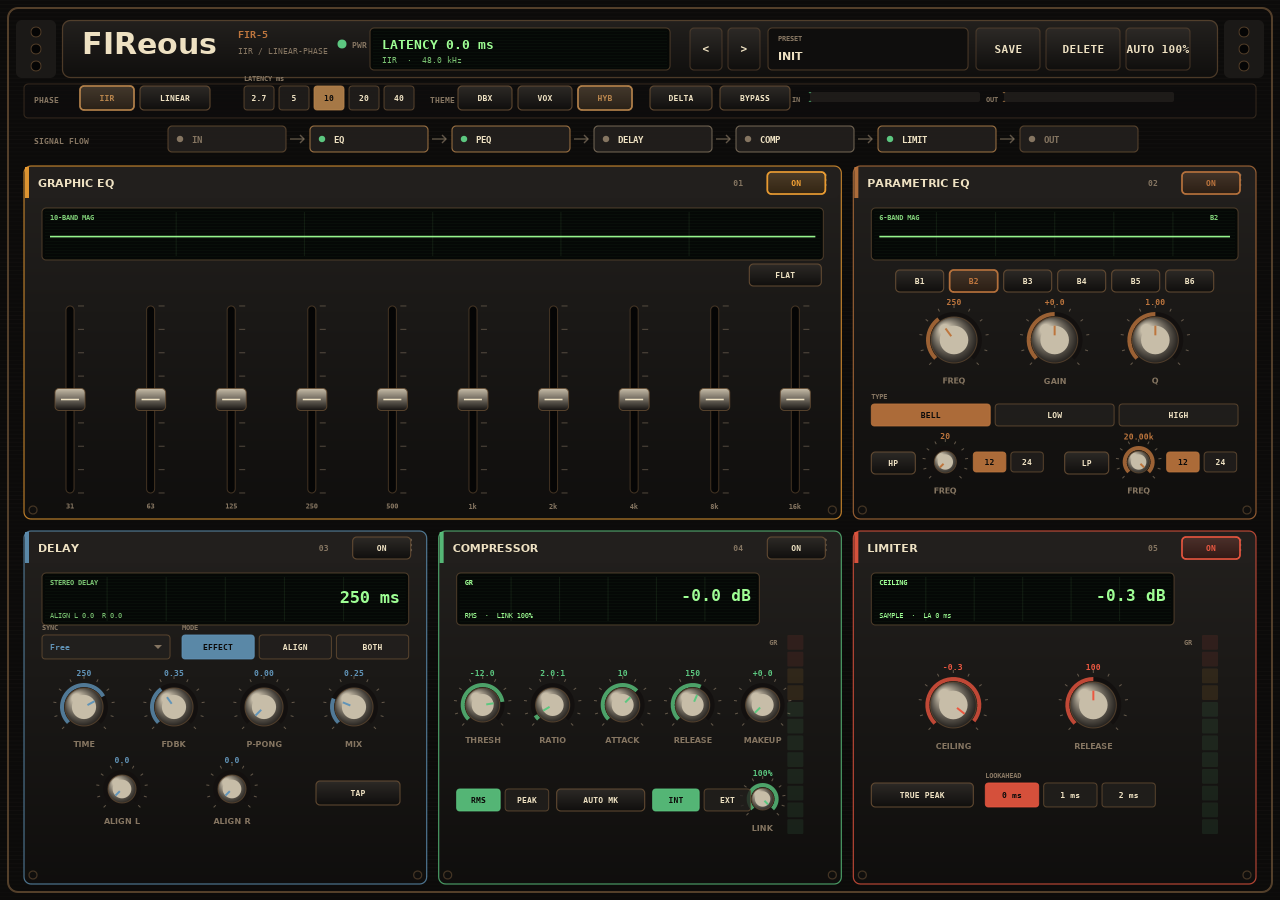
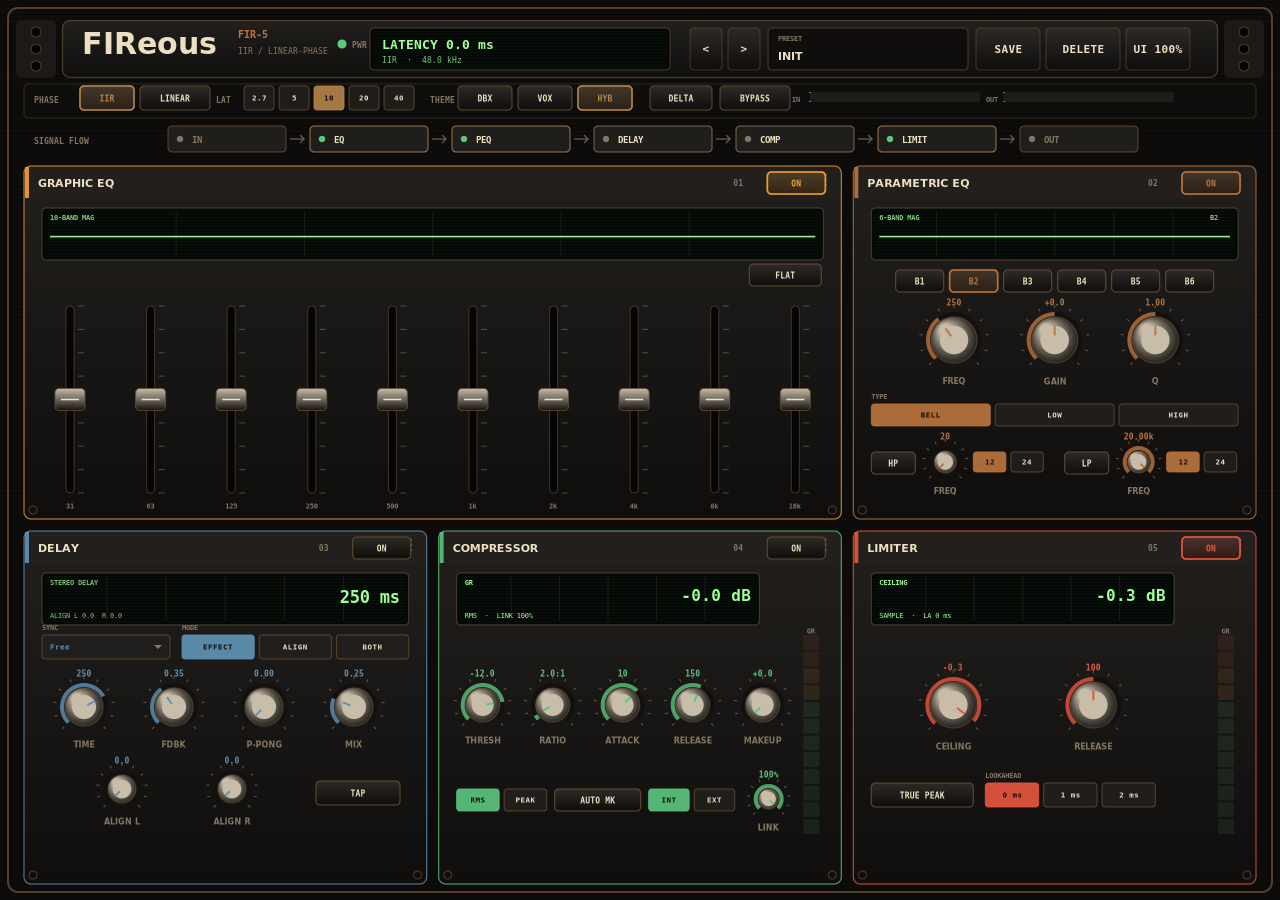
Fix UI overlaps and make UI scale work in standalone

Changed region(s): [[0.5, 0.8711, 0.625, 0.9333], [0.375, 0.8711, 0.4688, 0.9022], [0.875, 0.0311, 0.9375, 0.0622]]

diff --git a/plugins/FIReous/ui/UIPainter.hpp b/plugins/FIReous/ui/UIPainter.hpp
@@ -579,20 +579,20 @@ inline void buildCompModule(Layout& L, const ModulePanel& p, Color accent, const
 {
     const float x = p.x, y = p.y, w = p.w, h = p.h;
     addLcd(L, x + 18, y + 42, w - 100, 52, kLcdComp, th.lcdText, th.lcdBg);
-    addMeter(L, x + w - 54, y + 104, 16, h - 154, kMeterGrComp, th.accentComp, true, "GR");
+    addMeter(L, x + w - 38, y + 104, 16, h - 154, kMeterGrComp, th.accentComp, true, "GR");
 
     addKnob(L, kParamCompThreshold, x + 44, y + 174, 20, "THRESH", accent);
     addKnob(L, kParamCompRatio,     x + 114, y + 174, 20, "RATIO", accent);
     addKnob(L, kParamCompAttack,    x + 184, y + 174, 20, "ATTACK", accent);
     addKnob(L, kParamCompRelease,   x + 254, y + 174, 20, "RELEASE", accent);
     addKnob(L, kParamCompMakeup,    x + 324, y + 174, 20, "MAKEUP", accent);
-    addKnob(L, kParamCompLink,      x + 324, y + 268, 14, "LINK", accent);
+    addKnob(L, kParamCompLink,      x + 330, y + 268, 13, "LINK", accent);
 
-    addSelector(L, kParamCompDetector, x + 18, y + 258, 92, 22,
+    addSelector(L, kParamCompDetector, x + 18, y + 258, 90, 22,
                 { {0.0f, "RMS"}, {1.0f, "PEAK"} }, accent, nullptr);
-    L.buttons.push_back(makeButton(x + 118, y + 258, 88, 22, "AUTO MK", accent,
+    L.buttons.push_back(makeButton(x + 116, y + 258, 86, 22, "AUTO MK", accent,
                                    kParamCompAutoMakeup, 0.0f, kActionNone, true));
-    addSelector(L, kParamCompKey, x + 214, y + 258, 98, 22,
+    addSelector(L, kParamCompKey, x + 210, y + 258, 86, 22,
                 { {0.0f, "INT"}, {1.0f, "EXT"} }, accent, nullptr);
     (void)h;
 }
@@ -601,7 +601,7 @@ inline void buildLimModule(Layout& L, const ModulePanel& p, Color accent, const 
 {
     const float x = p.x, y = p.y, w = p.w, h = p.h;
     addLcd(L, x + 18, y + 42, w - 100, 52, kLcdLim, th.lcdText, th.lcdBg);
-    addMeter(L, x + w - 54, y + 104, 16, h - 154, kMeterGrLim, th.accentLim, true, "GR");
+    addMeter(L, x + w - 38, y + 104, 16, h - 154, kMeterGrLim, th.accentLim, true, "GR");
 
     addKnob(L, kParamLimCeiling, x + 100, y + 174, 26, "CEILING", accent);
     addKnob(L, kParamLimRelease, x + 240, y + 174, 26, "RELEASE", accent);
@@ -647,7 +647,7 @@ inline Layout buildLayout(float width, float height, const float* values,
     L.buttons.push_back(makeButton(140, 86, 70, 24, "LINEAR", th.accentGlobal, kParamPhaseMode, 1.0f));
     addSelector(L, kParamLinearLatency, 244, 86, 170, 24,
                 { {0.0f, "2.7"}, {1.0f, "5"}, {2.0f, "10"}, {3.0f, "20"}, {4.0f, "40"} },
-                th.accentGlobal, "LATENCY ms");
+                th.accentGlobal, nullptr);
     L.buttons.push_back(makeButton(458, 86, 54, 24, "DBX", th.accentGlobal, kParamCount, 0.0f, kActionThemeDbx));
     L.buttons.push_back(makeButton(518, 86, 54, 24, "VOX", th.accentGlobal, kParamCount, 0.0f, kActionThemeVox));
     L.buttons.push_back(makeButton(578, 86, 54, 24, "HYB", th.accentGlobal, kParamCount, 0.0f, kActionThemeHybrid));
@@ -844,6 +844,7 @@ inline void paintGlobalStrip(cairo_t* cr, const Layout& L, const PaintState& s, 
     setFont(cr, 8, true, true);
     setColor(cr, th.dim);
     drawText(cr, "PHASE", 34, 103);
+    drawText(cr, "LAT", 216, 103);
     drawText(cr, "THEME", 430, 103);
     (void)s;
 }
@@ -1165,7 +1166,12 @@ inline void paintMeter(cairo_t* cr, const Meter& m, float value, const Theme& th
     setFont(cr, 7, true, true);
     setColor(cr, th.dim);
     if (m.label)
-        drawText(cr, m.label, m.x - 18.0, m.y + (m.vertical ? 10.0 : m.h));
+    {
+        if (m.vertical)
+            centeredText(cr, m.label, m.x + m.w * 0.5, m.y - 4.0);
+        else
+            drawText(cr, m.label, m.x - 18.0, m.y + m.h);
+    }
 
     const int segments = m.vertical ? 12 : 20;
     if (m.vertical)

diff --git a/tools/offline_render.cpp b/tools/offline_render.cpp
@@ -10,11 +10,13 @@
 #include <cstdio>
 #include <cstdlib>
 #include <cmath>
+#include <cstring>
 
 int main(int argc, char** argv)
 {
     const char* outPath = argc > 1 ? argv[1] : "/tmp/fireous-ui.png";
     const int theme = argc > 2 ? std::atoi(argv[2]) : 2;
+    const bool linear = argc > 3 && std::strcmp(argv[3], "linear") == 0;
 
     float values[fireous::kParamCount];
     for (uint32_t i = 0; i < fireous::kParamCount; ++i)
@@ -47,6 +49,12 @@ int main(int argc, char** argv)
     values[fireous::kParamMeterOutPeakL] = 0.66f;
     values[fireous::kParamMeterOutPeakR] = 0.61f;
     values[fireous::kParamMeterLatency] = 5.0f;
+    if (linear)
+    {
+        values[fireous::kParamPhaseMode] = 1.0f;
+        values[fireous::kParamLinearLatency] = 2.0f; // 10 ms
+        values[fireous::kParamMeterLatency] = 480.0f;
+    }
 
     fireous::ui::Layout layout = fireous::ui::buildLayout(1280.0f, 900.0f, values, 1, theme);
 

diff --git a/plugins/FIReous/DistrhoPluginInfo.h b/plugins/FIReous/DistrhoPluginInfo.h
@@ -23,5 +23,6 @@
 #define DISTRHO_UI_USE_CAIRO             1
 #define DISTRHO_UI_DEFAULT_WIDTH         1280
 #define DISTRHO_UI_DEFAULT_HEIGHT        900
+#define DISTRHO_UI_USER_RESIZABLE         1
 
 #endif // DISTRHO_PLUGIN_INFO_H_INCLUDED
